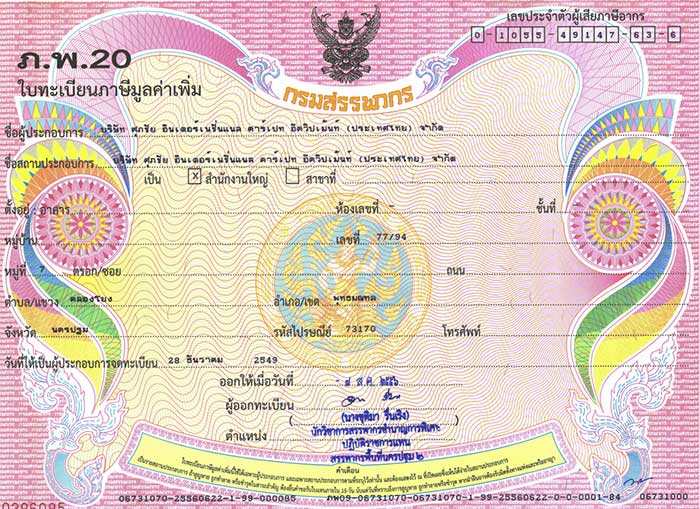
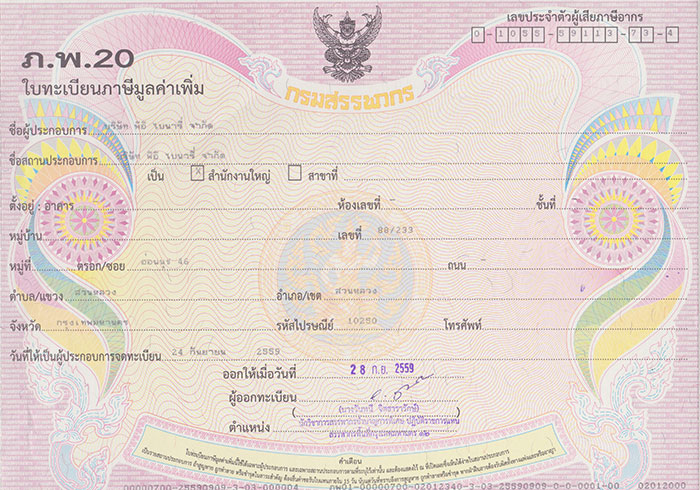
Update blog on VAT registration
Update blog on VAT registration

diff --git a/_includes/5-about/registration.html b/_includes/5-about/registration.html
@@ -1,7 +1,7 @@
 <section class="container registration">
   <h2>We are a legally registered company</h2>
+  <h4>Company registration document (since July 2016)</h4>
   <p>You can click at these documents in order to view a larger version.</p>
-
   <div class="row">
     <div class="col-xs-4 col-xs-offset-2 col-sm-4 col-sm-offset-2 col-md-4 col-md-offset-2 col-lg-4 col-lg-offset-2">
       <a class="modal-link" data-toggle="modal" data-target="#RA" data-keyboard="true"><img class="img-thumbnail" src="{{ "/assets/img/registration/RAs.png" | prepend: site.baseurl }}"></a>
@@ -37,6 +37,27 @@
             <!-- <div class="modal-footer">
               <button class="button-x" data-dismiss="modal">Close</button>
             </div> -->
+          </div>
+        </div>
+      </div>
+    </div>
+  </div>
+  <br>
+  <h4>VAT certificate (since October 2016)</h4>
+  <p>You can click at these documents in order to view a larger version.</p>
+  <div class="row">
+    <div class="col-xs-12 col-sm-12 col-md-12 col-lg-12 text-center">
+      <a class="modal-link" data-toggle="modal" data-target="#VAT" data-keyboard="true"><img class="img-thumbnail" src="{{ "/assets/img/registration/VATs.jpg" | prepend: site.baseurl }}" alt="VAT registration"></a>
+      <div class="modal fade" id="VAT" tabindex="-1">
+        <div class="modal-dialog modal-sm">
+          <div class="modal-content">
+            <div class="modal-header">
+              <a data-dismiss="modal"><i class="pe-times pull-right"></i></a>
+              <span class="modal-title">VAT certificate</span>
+            </div>
+            <div class="modal-body text-center">
+              <img class="center-block" src="{{ "/assets/img/registration/VAT.jpg" | prepend: site.baseurl }}" alt="VAT registration">
+            </div>
           </div>
         </div>
       </div>

diff --git a/_posts/2016-09-14-VAT-registration.md b/_posts/2016-09-14-VAT-registration.md
@@ -29,14 +29,20 @@ And staff from [The Revenue Department, Ministry of Finance] {% include 0-base/e
 
 ---
 
-#### Updated on 5 October 2016 <span class="label blue">updated</span>
+#### Updated on 5 October 2016
 
 Today, we have received the official document from [The Revenue Department, Ministry of Finance] {% include 0-base/ext.html %} which was sent to us by postal. We are told to put this document on the wall within our office on a spot where it can be easily see and read by anyone who comes and visits our office.
 
-<!-- And below are the electronic copies of the completed paperwork that we have got back from the [The Revenue Department, Ministry of Finance] {% include 0-base/ext.html %} regarding to our official `VAT certificate registration`. -->
+**VAT Registration Number: 0-1055-59113-73-4**
+
+---
+
+#### Updated on 11 October 2016 <span class="label blue">updated</span>
+
+And below are the electronic copies of the completed paperwork that we have got back from the [The Revenue Department, Ministry of Finance] {% include 0-base/ext.html %} regarding to our official `VAT certificate registration`.
 
 
-<!-- <div class="row">
+<div class="row">
   <div class="col-xs-12 col-sm-12 col-md-12 col-lg-12">
     <a class="modal-link" data-toggle="modal" data-target="#VAT"><img class="img-thumbnail" src="{{ "/assets/img/registration/VATs.jpg" | prepend: site.baseurl }}" alt="VAT registration"></a>
     <div class="modal fade" id="VAT" tabindex="-1" role="dialog">
@@ -53,7 +59,7 @@ Today, we have received the official document from [The Revenue Department, Mini
       </div>
     </div>
   </div>
-</div> -->
+</div>
 
 
 [The Revenue Department, Ministry of Finance]: http://www.rd.go.th
